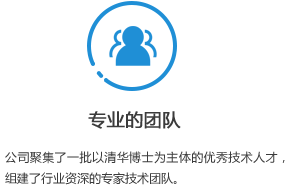
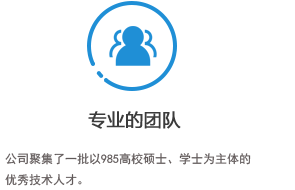
修改部分文字

Changed region(s): [[0.0, 0.7895, 0.9763, 0.8684], [0.0, 0.8947, 0.6102, 0.9737]]

diff --git a/2-company.html b/2-company.html
@@ -91,14 +91,14 @@
 					无锡千里目软件扎根现在，同时着眼未来，公司聚集了一批以211大学院校硕士为主体的优秀技术人才，组建了行业资深的专家顾问团队，充分保障公司在产品创新与服务上的良性发展。
 					公司拥有丰富的信息化建设、应用软件研发经验，包括企业信息系统建设解决方案、移动APP、数据中心整体解决方案等，应用已覆盖到“政府、教育、企业”等多个行业领域。</p>
 			</div>
-			<div class="comp_qua">
+			<!--<div class="comp_qua">
 				<h4>企业资质</h4>
 			</div>
 			<div class="comp_qua_pic">
 				<img src="images/comp_pic02.png" alt="企业资质-高新技术证书"> 
 				<img src="images/comp_pic05.png" alt="企业资质-质量管理体系认证证书"> 
 				<img src="images/comp_pic04.png" alt="企业资质-软件企业认定证书">
-			</div>
+			</div>-->
 		</div>
 	</div>
 
